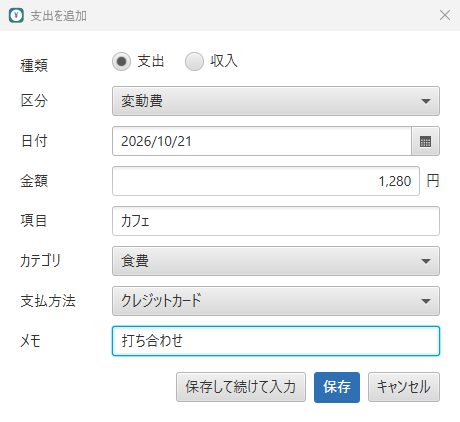
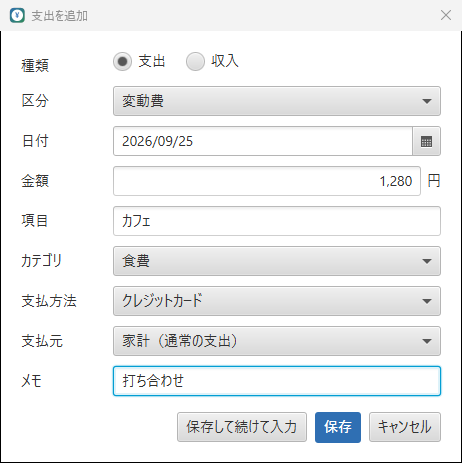
貯金・積立に合わせてサイトを更新（特長・画面・使い方・スクリーンショット・ZIP の情報）
- 特長に「貯金・積立」「並べ替え・絞り込み」「起動時のパスワード」を追加
- 貯金・積立の画面・推移グラフ・貯金の入力のスクリーンショットを追加し、メイン画面などを撮り直し
- 使い方に「貯金・積立」の項目と、支払元・Excel の列・年間の収支の列の説明を追加
- デモデータに貯金・積立を追加

diff --git a/guide.html b/guide.html
@@ -16,7 +16,7 @@
   <link rel="preconnect" href="https://fonts.googleapis.com">
   <link rel="preconnect" href="https://fonts.gstatic.com" crossorigin>
   <link href="https://fonts.googleapis.com/css2?family=Noto+Sans+JP:wght@400;500;700&display=swap" rel="stylesheet">
-  <link rel="stylesheet" href="assets/css/style.css?v=20261022c">
+  <link rel="stylesheet" href="assets/css/style.css?v=20261023a">
 </head>
 <body>
   <a class="skip-link" href="#main">本文へ移動</a>
@@ -63,6 +63,7 @@
           <li><a href="#period">新しい期間と繰越</a></li>
           <li><a href="#fixed">固定費</a></li>
           <li><a href="#reports">集計（グラフ・年間）</a></li>
+          <li><a href="#savings">貯金・積立</a></li>
           <li><a href="#masters">カテゴリ・支払方法</a></li>
           <li><a href="#password">起動時のパスワード</a></li>
           <li><a href="#backup">バックアップと PC の移行</a></li>
@@ -112,7 +113,7 @@
         <section id="screen" aria-labelledby="h-screen">
           <h2 id="h-screen">メイン画面の見方</h2>
           <figure>
-            <img src="assets/img/screens/main.png" width="1424" height="818" loading="lazy" alt="メイン画面">
+            <img src="assets/img/screens/main.png" width="1424" height="838" loading="lazy" alt="メイン画面">
             <figcaption>メイン画面（金額は説明用の架空のデータです）</figcaption>
           </figure>
           <div class="table-wrap">
@@ -124,11 +125,13 @@
                 <tr><td>前月繰越</td><td>前の期間の残額（不足ならマイナス）</td></tr>
                 <tr><td>利用可能金額</td><td>収入 ＋ 前月繰越</td></tr>
                 <tr><td>固定費・変動費・投資・積立</td><td>期間内のそれぞれの合計</td></tr>
-                <tr><td>残額</td><td>利用可能金額 − 固定費 − 変動費 − 投資・積立。マイナスのときは赤く表示されます。</td></tr>
+                <tr><td>貯金残高</td><td>全部の貯金口座の今の残高（「詳細」で貯金・積立の画面を開きます）</td></tr>
+                <tr><td>貯金</td><td>期間内に家計から貯金口座へ移した額（積立を含む）</td></tr>
+                <tr><td>残額</td><td>利用可能金額 − 固定費 − 変動費 − 投資・積立 − 貯金。マイナスのときは赤く表示されます。貯金から支払った支出は差し引きません。</td></tr>
               </tbody>
             </table>
           </div>
-          <p>右側には、今月と前月の支出、カテゴリ別の支出のグラフが表示されます。明細の一覧は「全て／収入／固定費／変動費／投資・積立」で絞り込めます。列の見出しからは、並べ替えや値ごとの絞り込みもできます（次の項目）。</p>
+          <p>右側には、今月と前月の支出、カテゴリ別の支出のグラフが表示されます。明細の一覧は「全て／収入／固定費／変動費／投資・積立／貯金」で絞り込めます。列の見出しからは、並べ替えや値ごとの絞り込みもできます（次の項目）。</p>
         </section>
 
         <section id="filter" aria-labelledby="h-filter">
@@ -153,11 +156,12 @@
           <h2 id="h-entries">明細の登録・編集</h2>
           <p>「+ 支出」または「+ 収入」を押して入力し、「保存」を押します。</p>
           <figure>
-            <img src="assets/img/screens/entry.png" width="460" height="422" loading="lazy" alt="支出を追加する画面">
+            <img src="assets/img/screens/entry.png" width="462" height="463" loading="lazy" alt="支出を追加する画面">
           </figure>
           <ul>
             <li><strong>区分</strong> … 支出は「固定費／変動費／投資・積立」、収入は「固定／変動」。</li>
             <li><strong>項目</strong> … 入力すると過去の項目名が候補に出ます。候補を選ぶと、前回のカテゴリと支払方法が入ります。</li>
+            <li><strong>支払元</strong> … 支出のとき、家計から払ったか貯金口座から払ったかを選びます（<a href="#savings">貯金・積立</a>）。</li>
             <li><strong>保存して続けて入力</strong> … 日付と区分を残したまま、次の明細を入力できます。</li>
           </ul>
           <h3>編集・削除・複製</h3>
@@ -188,15 +192,58 @@
           <h2 id="h-reports">集計（グラフ・年間）</h2>
           <p>メイン画面の右側で、今月・前月の支出と前月との差、カテゴリ別の支出（金額と割合）を確認できます。</p>
           <h3>年間の収支</h3>
-          <p>メニュー「集計」→「年間の収支…」で、1月1日〜12月31日の収入合計・支出合計・収支と、月別の表を確認できます。給料日の期間ではなく、明細の日付で集計します（繰越は含みません）。</p>
+          <p>メニュー「集計」→「年間の収支…」で、1月1日〜12月31日の収入合計・支出合計・収支と、月別の表を確認できます。給料日の期間ではなく、明細の日付で集計します（繰越は含みません）。支出合計には貯金への入金を含みます。「貯金から支出」は家計の収支に含めない参考の列です。</p>
           <figure>
-            <img src="assets/img/screens/year.png" width="880" height="851" loading="lazy" alt="年間の収支の画面">
+            <img src="assets/img/screens/year.png" width="1062" height="852" loading="lazy" alt="年間の収支の画面">
           </figure>
+        </section>
+
+        <section id="savings" aria-labelledby="h-savings">
+          <h2 id="h-savings">貯金・積立</h2>
+          <p>給料から貯金に回したお金を「貯金」として記録し、口座ごとの残高・積立の目標と実績・貯金から使ったお金を管理できます。メニュー「集計」→「貯金・積立…」（またはメイン画面の「貯金残高」の「詳細」）で開きます。</p>
+          <figure>
+            <img src="assets/img/screens/savings.png" width="1042" height="772" loading="lazy" alt="貯金・積立の画面（概要）。貯金残高・積立額の累計・貯金からの累計支出額・今月の貯金額・積立額・目標と達成率、口座ごとの残高、目的ごとの進み具合">
+            <figcaption>貯金・積立の画面（概要）</figcaption>
+          </figure>
+          <h3>貯金する</h3>
+          <p>メイン画面の「+ 貯金」で、日付・貯金額・貯金口座・積立の目的・貯金の種類・メモを入力します。貯金した額は、その期間の残額から差し引かれます（家計から出ていくお金のため）。</p>
+          <figure>
+            <img src="assets/img/screens/savings-entry.png" width="462" height="475" loading="lazy" alt="貯金の入力画面。日付・貯金額・貯金口座・積立の目的・貯金の種類・項目・メモ">
+          </figure>
+          <ul>
+            <li><strong>積立</strong> … 「積立の目的」（旅行・生活防衛資金など）を選んだ貯金です。目的ごとに1期間あたりの目標額を設定でき、今月の目標と実績・達成率を確認できます。目標額を設定しただけでは貯金残高は増えません。</li>
+            <li><strong>貯金から支出</strong> … 支出の入力で「支払元」に貯金口座を選びます。その口座の残高が減り、家計の残額は減りません。口座の残高を超える金額は登録できません。明細一覧では区分が「貯金から支出」になります。</li>
+          </ul>
+          <h3>集計のきまり</h3>
+          <div class="table-wrap">
+            <table>
+              <thead><tr><th scope="col">表示</th><th scope="col">計算</th></tr></thead>
+              <tbody>
+                <tr><td>貯金残高</td><td>入金の累計 − 貯金からの支出の累計（口座ごと・全口座）</td></tr>
+                <tr><td>積立額の累計</td><td>積立の目的を選んで入金した額の累計（貯金から使っても減りません）</td></tr>
+                <tr><td>貯金からの累計支出額</td><td>貯金口座から支払った支出の累計</td></tr>
+                <tr><td>達成率</td><td>今月の積立額 ÷ 今月の積立目標</td></tr>
+              </tbody>
+            </table>
+          </div>
+          <p>「今月」「月別」は給料日の期間です。年別は期間の開始日の年でまとめます。「投資・積立」（NISA など）は貯金残高に含めません。</p>
+          <h3>画面のタブ</h3>
+          <ul>
+            <li><strong>概要</strong> … 残高・累計・今月の貯金額・積立額・目標と達成率、口座ごとの残高、目的ごとの進み具合</li>
+            <li><strong>履歴</strong> … 入金と貯金からの支出の一覧（種別・年・口座で絞り込み、見出しで並べ替え）。登録後の残高も表示し、ダブルクリック・<kbd>Enter</kbd> で編集、<kbd>Delete</kbd> で削除できます。</li>
+            <li><strong>推移・グラフ</strong> … 月別／年別の表と、貯金額・積立額・積立目標・貯金からの支出の棒グラフ、貯金残高の折れ線グラフ</li>
+            <li><strong>積立の目的</strong>・<strong>口座</strong> … 追加・名前（と目標額）の変更・並べ替え・削除</li>
+          </ul>
+          <figure>
+            <img src="assets/img/screens/savings-chart.png" width="1042" height="950" loading="lazy" alt="推移・グラフのタブ。期間ごとの表と、貯金額・積立額・積立目標・貯金からの支出の棒グラフ、貯金残高の折れ線グラフ">
+            <figcaption>推移・グラフ（月別）</figcaption>
+          </figure>
+          <p class="callout">残高は記録から毎回計算し直すため、過去の記録を変更・削除しても正しく保たれます。ただし、変更・削除で残高が途中でマイナスになる場合（先に貯金から使っている場合）はできません。先に貯金からの支出を変更・削除してください。</p>
         </section>
 
         <section id="masters" aria-labelledby="h-masters">
           <h2 id="h-masters">カテゴリ・支払方法</h2>
-          <p>メニュー「管理」→「カテゴリ・支払方法…」で、追加・名前の変更・並べ替え・削除ができます。明細や固定費で使われているものは、削除の代わりに「無効」になります（過去の明細には残り、新しい入力の選択肢から消えます）。「無効も表示」にチェックすると、有効に戻せます。</p>
+          <p>メニュー「管理」→「カテゴリ・支払方法…」で、追加・名前の変更・並べ替え・削除ができます。カテゴリは「収入／支出／投資・積立／貯金の種類」ごとに管理します。明細や固定費で使われているものは、削除の代わりに「無効」になります（過去の明細には残り、新しい入力の選択肢から消えます）。「無効も表示」にチェックすると、有効に戻せます。</p>
         </section>
 
         <section id="password" aria-labelledby="h-password">
@@ -242,13 +289,15 @@
               <thead><tr><th scope="col">列名</th><th scope="col">必須</th><th scope="col">書き方</th></tr></thead>
               <tbody>
                 <tr><td>日付</td><td>○</td><td>2026/10/04 など（Excel の日付でも可）</td></tr>
-                <tr><td>種類</td><td>○</td><td>収入／支出／投資・積立</td></tr>
+                <tr><td>種類</td><td>○</td><td>収入／支出／投資・積立／貯金</td></tr>
                 <tr><td>項目</td><td>○</td><td>例: スーパー</td></tr>
                 <tr><td>金額</td><td>○</td><td>整数の円（1,200 や 1200円 も可）</td></tr>
                 <tr><td>カテゴリ</td><td>○</td><td>アプリに登録済みの名前と同じにする</td></tr>
                 <tr><td>固定/変動</td><td></td><td>固定／変動（空欄なら変動）</td></tr>
                 <tr><td>支払方法</td><td></td><td>登録済みの名前（収入の行は空欄）</td></tr>
                 <tr><td>メモ</td><td></td><td>自由</td></tr>
+                <tr><td>貯金口座</td><td></td><td>貯金なら入金先（必須）。支出なら貯金から支払った口座</td></tr>
+                <tr><td>積立の目的</td><td></td><td>貯金のみ。登録済みの目的の名前（空欄なら積立ではない貯金）</td></tr>
               </tbody>
             </table>
           </div>
@@ -328,7 +377,7 @@
     </div>
   </footer>
 
-  <script src="assets/js/site-config.js?v=20261022c"></script>
-  <script src="assets/js/main.js?v=20261022c"></script>
+  <script src="assets/js/site-config.js?v=20261023a"></script>
+  <script src="assets/js/main.js?v=20261023a"></script>
 </body>
 </html>

diff --git a/index.html b/index.html
@@ -18,7 +18,7 @@
   <link rel="preconnect" href="https://fonts.googleapis.com">
   <link rel="preconnect" href="https://fonts.gstatic.com" crossorigin>
   <link href="https://fonts.googleapis.com/css2?family=Noto+Sans+JP:wght@400;500;700&display=swap" rel="stylesheet">
-  <link rel="stylesheet" href="assets/css/style.css?v=20261022c">
+  <link rel="stylesheet" href="assets/css/style.css?v=20261023a">
 </head>
 <body>
   <a class="skip-link" href="#main">本文へ移動</a>
@@ -66,8 +66,8 @@
           </ul>
         </div>
         <figure class="shot-frame">
-          <img src="assets/img/screens/main.png" width="1424" height="818"
-               alt="まねまね(MoneyManage) のメイン画面。期間 2026/09/25〜10/22 の収入・前月繰越・利用可能金額・固定費・変動費・投資・積立・残額のカードと、明細の一覧、カテゴリ別の支出グラフが表示されている">
+          <img src="assets/img/screens/main.png" width="1424" height="838"
+               alt="まねまね(MoneyManage) のメイン画面。期間 2026/09/25〜10/22 の収入・前月繰越・利用可能金額・固定費・変動費・投資・積立・貯金残高・貯金・残額のカードと、明細の一覧、カテゴリ別の支出グラフが表示されている">
         </figure>
       </div>
     </section>
@@ -97,6 +97,11 @@
             <p>家賃やサブスク、積立を登録しておけば、新しい期間を始めるときに明細へまとめて登録します。</p>
           </article>
           <article class="feature">
+            <span class="feature-icon" aria-hidden="true"><svg width="22" height="22" viewBox="0 0 24 24" fill="none" stroke="currentColor" stroke-width="1.8" stroke-linecap="round" stroke-linejoin="round"><ellipse cx="12" cy="6" rx="7" ry="3"/><path d="M5 6v6c0 1.7 3.1 3 7 3s7-1.3 7-3V6"/><path d="M5 12v6c0 1.7 3.1 3 7 3s7-1.3 7-3v-6"/></svg></span>
+            <h3>貯金・積立</h3>
+            <p>口座ごとの貯金残高、旅行など目的ごとの積立の目標と達成率、貯金から使ったお金をグラフで確認できます。</p>
+          </article>
+          <article class="feature">
             <span class="feature-icon" aria-hidden="true"><svg width="22" height="22" viewBox="0 0 24 24" fill="none" stroke="currentColor" stroke-width="1.8" stroke-linecap="round" stroke-linejoin="round"><path d="M4 20V10M10 20V4M16 20v-7M22 20H2"/></svg></span>
             <h3>カテゴリ別・年間の集計</h3>
             <p>期間ごとのカテゴリ別の支出と前月比較、1月〜12月の年間収支を確認できます。</p>
@@ -109,7 +114,17 @@
           <article class="feature">
             <span class="feature-icon" aria-hidden="true"><svg width="22" height="22" viewBox="0 0 24 24" fill="none" stroke="currentColor" stroke-width="1.8" stroke-linecap="round" stroke-linejoin="round"><path d="M12 3l8 3v6c0 4.5-3.4 8.3-8 9-4.6-.7-8-4.5-8-9V6z"/><path d="M9 12l2 2 4-4"/></svg></span>
             <h3>データは手元に。バックアップも簡単</h3>
-            <p>インターネットに送信せず、パソコン内に保存。バックアップと復元で PC の移行もでき、起動時のパスワードも設定できます。</p>
+            <p>インターネットに送信せず、パソコン内に保存。バックアップと復元で PC の移行もできます。</p>
+          </article>
+          <article class="feature">
+            <span class="feature-icon" aria-hidden="true"><svg width="22" height="22" viewBox="0 0 24 24" fill="none" stroke="currentColor" stroke-width="1.8" stroke-linecap="round" stroke-linejoin="round"><path d="M4 5h16l-6 7v6l-4 2v-8z"/></svg></span>
+            <h3>並べ替え・絞り込み</h3>
+            <p>明細の一覧は、列の見出しから Excel のフィルターのように並べ替え・絞り込みができます。</p>
+          </article>
+          <article class="feature">
+            <span class="feature-icon" aria-hidden="true"><svg width="22" height="22" viewBox="0 0 24 24" fill="none" stroke="currentColor" stroke-width="1.8" stroke-linecap="round" stroke-linejoin="round"><rect x="5" y="11" width="14" height="10" rx="2"/><path d="M8 11V7a4 4 0 0 1 8 0v4"/></svg></span>
+            <h3>起動時のパスワード</h3>
+            <p>設定でオンにすると、アプリを開くときにパスワードを確認します。家族と共用の PC でも安心です。</p>
           </article>
         </div>
       </div>
@@ -126,21 +141,21 @@
         <div class="screens">
           <figure class="screen screen-wide">
             <button type="button" data-zoom="メイン画面">
-              <img src="assets/img/screens/main.png" width="1424" height="818" loading="lazy"
-                   alt="メイン画面。上部に期間、カードに収入・前月繰越・利用可能金額・固定費・変動費・投資・積立・残額、下に明細の一覧と分析パネル">
+              <img src="assets/img/screens/main.png" width="1424" height="838" loading="lazy"
+                   alt="メイン画面。上部に期間、カードに収入・前月繰越・利用可能金額・固定費・変動費・投資・積立・貯金残高・貯金・残額、下に明細の一覧と分析パネル">
             </button>
             <figcaption><strong>メイン画面</strong>期間の残額と、収入・支出の内訳、明細、カテゴリ別の支出を1画面で確認できます。</figcaption>
           </figure>
           <figure class="screen">
             <button type="button" data-zoom="明細の入力">
-              <img src="assets/img/screens/entry.png" width="460" height="422" loading="lazy"
+              <img src="assets/img/screens/entry.png" width="462" height="463" loading="lazy"
                    alt="支出を追加する画面。種類・区分・日付・金額・項目・カテゴリ・支払方法・メモの入力欄">
             </button>
             <figcaption><strong>明細の入力</strong>項目名を入力すると過去の内容から候補を表示します。</figcaption>
           </figure>
           <figure class="screen">
             <button type="button" data-zoom="年間の収支">
-              <img src="assets/img/screens/year.png" width="880" height="851" loading="lazy"
+              <img src="assets/img/screens/year.png" width="1062" height="852" loading="lazy"
                    alt="年間の収支の画面。収入合計・支出合計・収支と、1月〜12月の月別の表">
             </button>
             <figcaption><strong>年間の収支</strong>1月〜12月の月別の収入・支出と年間の合計。</figcaption>
@@ -165,6 +180,20 @@
                    alt="設定の画面。通常の給料日と、起動時のパスワードのオン／オフ">
             </button>
             <figcaption><strong>起動時のパスワード</strong>設定でオンにすると、アプリを開くときにパスワードを確認します。</figcaption>
+          </figure>
+          <figure class="screen screen-span2">
+            <button type="button" data-zoom="貯金・積立">
+              <img src="assets/img/screens/savings.png" width="1042" height="772" loading="lazy"
+                   alt="貯金・積立の画面。貯金残高・積立額の累計・貯金からの累計支出額・今月の貯金額・積立額・目標と達成率、口座ごとの残高、目的ごとの進み具合">
+            </button>
+            <figcaption><strong>貯金・積立</strong>貯金残高・積立の累計・今月の目標と達成率を1画面で。推移はグラフでも確認できます。</figcaption>
+          </figure>
+          <figure class="screen">
+            <button type="button" data-zoom="貯金の推移グラフ">
+              <img src="assets/img/screens/savings-chart.png" width="1042" height="950" loading="lazy"
+                   alt="貯金の推移の画面。期間ごとの貯金額・積立額・積立目標・貯金からの支出の表と棒グラフ、貯金残高の折れ線グラフ">
+            </button>
+            <figcaption><strong>貯金の推移</strong>期間ごと・年ごとの貯金額と積立目標、残高の推移をグラフで表示します。</figcaption>
           </figure>
         </div>
       </div>
@@ -225,7 +254,7 @@
               <dt>動作確認</dt>
               <dd data-config="app.testedOn">Windows 11 Home（64bit）</dd>
               <dt>SHA-256</dt>
-              <dd><code data-config="release.sha256">d325d03b920725279284e56e4a6ed99ff8fdf6fd15336d8560f6b075aecdc1ac</code></dd>
+              <dd><code data-config="release.sha256">05eb0897325f5d3d4576705154ebf8afd97bba1044fec111d425ae5af1b07d81</code></dd>
             </dl>
             <ul class="notes">
               <li>展開した <code>Manemane</code> フォルダの中身は、まとめて置いたまま使ってください。</li>
@@ -335,7 +364,7 @@
     <img src="" alt="">
   </dialog>
 
-  <script src="assets/js/site-config.js?v=20261022c"></script>
-  <script src="assets/js/main.js?v=20261022c"></script>
+  <script src="assets/js/site-config.js?v=20261023a"></script>
+  <script src="assets/js/main.js?v=20261023a"></script>
 </body>
 </html>

diff --git a/assets/js/site-config.js b/assets/js/site-config.js
@@ -24,8 +24,8 @@ window.SITE_CONFIG = {
   release: {
     version: "0.1.0",                              // 確定（アプリ内のバージョン）
     fileName: "Manemane-0.1.0-windows.zip",        // 確定（配布する ZIP の名前）
-    fileSizeBytes: 94006316,                       // 確定（現在のビルド。ZIP を作り直したら更新する）
[1 lines of base64/hex data omitted]
+    fileSizeBytes: 94100749,                       // 確定（現在のビルド。ZIP を作り直したら更新する）
[1 lines of base64/hex data omitted]
     releaseDate: "2026-10-21",                     // GitHub Releases で公開した日
     // 一般公開している GitHub Releases の ZIP の URL（null にするとボタンが「公開準備中」になる）
     downloadUrl: "https://github.com/elfi00zt/MoneyManage/releases/download/v0.1.0/Manemane-0.1.0-windows.zip",
@@ -56,6 +56,7 @@ window.SITE_CONFIG = {
         "カテゴリ別の支出グラフ、前月との比較",
         "年間の収支（1月〜12月の月別・年間合計）",
         "Excel への書き出し・取り込み",
+        "貯金・積立（口座ごとの残高、積立の目的と目標額・達成率、貯金からの支出、推移のグラフ）",
         "バックアップと復元",
         "起動時のパスワード（設定でオン／オフ）",
         "アプリ内の使い方（ヘルプ）",

diff --git a/404.html b/404.html
@@ -9,7 +9,7 @@
   <link rel="preconnect" href="https://fonts.googleapis.com">
   <link rel="preconnect" href="https://fonts.gstatic.com" crossorigin>
   <link href="https://fonts.googleapis.com/css2?family=Noto+Sans+JP:wght@400;500;700&display=swap" rel="stylesheet">
-  <link rel="stylesheet" href="assets/css/style.css?v=20261022c">
+  <link rel="stylesheet" href="assets/css/style.css?v=20261023a">
 </head>
 <body>
   <header class="site-header">

diff --git a/tools/make_demo_db.py b/tools/make_demo_db.py
@@ -2,7 +2,8 @@
 スクリーンショット撮影用のデモデータ（架空）を作る。
 
 使い方:
-  python make_demo_db.py <アプリのソースの V1__init.sql> <出力する .db>
+  python make_demo_db.py <アプリのソースの V1__init.sql> <出力する .db> [<V2__savings.sql>]
+  V2 を指定すると、貯金・積立のデータ（口座・積立の目的・入金・貯金からの支出）も入れる。
 アプリは -PkakeiboDb=<出力した .db> を付けて起動する（本番のデータには触れない）。
 """
 import sqlite3
@@ -10,6 +11,7 @@ import sys
 from datetime import date, timedelta
 
 schema, out = sys.argv[1], sys.argv[2]
+savings_schema = sys.argv[3] if len(sys.argv) > 3 else None
 db = sqlite3.connect(out)
 db.executescript(open(schema, encoding="utf-8").read())
 now = "2026-10-20T10:00:00"
@@ -20,7 +22,11 @@ db.execute("INSERT INTO app_setting VALUES ('regular_payday', '25', ?)", (now,))
 paydays = ["2026-01-23", "2026-02-25", "2026-03-25", "2026-04-24", "2026-05-25", "2026-06-25",
            "2026-07-24", "2026-08-25", "2026-09-25"]
 # 画面上の期間は直近の2つだけにする（1〜7月の明細は「年間の収支」の画面にだけ表示される）
-for d, carry in [("2026-08-25", 32000), ("2026-09-25", None)]:
+periods = [("2026-08-25", 32000), ("2026-09-25", None)]
+if savings_schema:
+    # 撮影日（10/23）が新しい期間に入るため、10/23 からの期間も作る（画面は「前の期間」に戻して撮る）
+    periods.append(("2026-10-23", None))
+for d, carry in periods:
     db.execute("INSERT INTO budget_period(start_date, carry_over_override, created_at, updated_at) "
                "VALUES (?, ?, ?, ?)", (d, carry, now, now))
 
@@ -61,5 +67,39 @@ for i, d in enumerate(paydays):
 # 表示中の期間（9/25〜）の変動費を少し足す
 add("EXPENSE", 0, "2026-10-12", "書籍", 1760, "買い物", "クレジットカード")
 add("INCOME", 0, "2026-10-15", "副業", 15000, "副業")
+
+if savings_schema:
+    db.executescript(open(savings_schema, encoding="utf-8").read())
+    db.execute("INSERT INTO schema_version VALUES (2, '貯金・積立', ?)", (now,))
+    db.execute("INSERT INTO savings_account (name, sort_order, created_at, updated_at) VALUES ('ネット銀行', 20, ?, ?)",
+               (now, now))
+    for name, target, order in [("旅行", 20000, 10), ("生活防衛資金", 10000, 20)]:
+        gid = db.execute("INSERT INTO savings_goal (name, sort_order, created_at, updated_at) VALUES (?, ?, ?, ?)",
+                         (name, order, now, now)).lastrowid
+        db.execute("INSERT INTO savings_goal_target VALUES (?, '2026-08-25', ?, ?)", (gid, target, now))
+
+    def account(n):
+        return db.execute("SELECT id FROM savings_account WHERE name=?", (n,)).fetchone()[0]
+
+    def goal(n):
+        return None if n is None else db.execute("SELECT id FROM savings_goal WHERE name=?", (n,)).fetchone()[0]
+
+    def save(date_, amount, acc, goal_name=None):
+        db.execute("INSERT INTO entry(entry_type, is_fixed, entry_date, title, amount, category_id, savings_account_id,"
+                   " savings_goal_id, created_at, updated_at) VALUES ('SAVINGS', 0, ?, ?, ?, ?, ?, ?, ?, ?)",
+                   (date_, goal_name or "貯金", amount, cat("SAVINGS", "貯金"), account(acc), goal(goal_name), now, now))
+
+    save("2026-08-26", 20000, "貯金口座")
+    save("2026-08-27", 20000, "ネット銀行", "旅行")
+    save("2026-08-27", 10000, "貯金口座", "生活防衛資金")
+    save("2026-09-26", 20000, "ネット銀行", "旅行")
+    save("2026-09-26", 5000, "貯金口座", "生活防衛資金")
+    # 貯金から支払った支出（家計の残額は減らさず、貯金口座の残高が減る）
+    db.execute("INSERT INTO entry(entry_type, is_fixed, entry_date, title, amount, category_id, payment_method_id,"
+               " savings_account_id, created_at, updated_at) VALUES ('EXPENSE', 0, '2026-10-03', '電子レンジ', 12000, ?, ?,"
+               " ?, ?, ?)", (cat("EXPENSE", "買い物"), pm("銀行振込"), account("貯金口座"), now, now))
+    add("INCOME", 1, "2026-10-23", "給与", 250000, "給与")
+    save("2026-10-23", 20000, "ネット銀行", "旅行")
+    save("2026-10-23", 10000, "貯金口座", "生活防衛資金")
 db.commit()
 print("entries:", db.execute("SELECT COUNT(*) FROM entry").fetchone()[0])

diff --git a/README.md b/README.md
@@ -58,10 +58,12 @@ Get-FileHash .\Manemane-0.1.0-windows.zip -Algorithm SHA256
 
 画面の金額は説明用の架空のデータです（実際の家計のデータは使いません）。
 
-1. `python tools/make_demo_db.py <アプリの V1__init.sql> <出力先>/demo.db` でデモデータを作る
+1. `python tools/make_demo_db.py <アプリの V1__init.sql> <出力先>/demo.db <アプリの V2__savings.sql>` でデモデータ（貯金を含む）を作る
+   （撮影日が 10/23 以降なら 10/23 からの期間もできるため、メイン画面は「＜ 前の期間」で 9/25〜 に戻して撮る）
 2. アプリを `gradlew.bat :desktop:run -PkakeiboDb=<出力先>\demo.db` で起動し、各画面を撮影する
    - `main.png` / `entry.png` / `year.png` / `help.png`
    - `filter.png`（列見出しの絞り込みメニューを開いた一覧）、`settings.png`（設定画面）、`login.png`（起動時のパスワード入力）
+   - `savings.png`（貯金・積立の概要）、`savings-chart.png`（推移・グラフ）、`savings-entry.png`（貯金の入力）
    - 出力先はユーザー名を含まない場所（例: `C:\Users\Public\Documents\...`）にする（設定画面にデータの保存場所が表示されるため）
 3. `powershell -ExecutionPolicy Bypass -File tools\process_screens.ps1 -In <撮影した画像のフォルダ>` で `assets/img/screens` と OGP 画像を更新する
    （`main.png` は必須。ほかは撮り直したものだけ差し替えます。メイン画面はステータスバーのデータの保存場所の表示を切り取ります）
